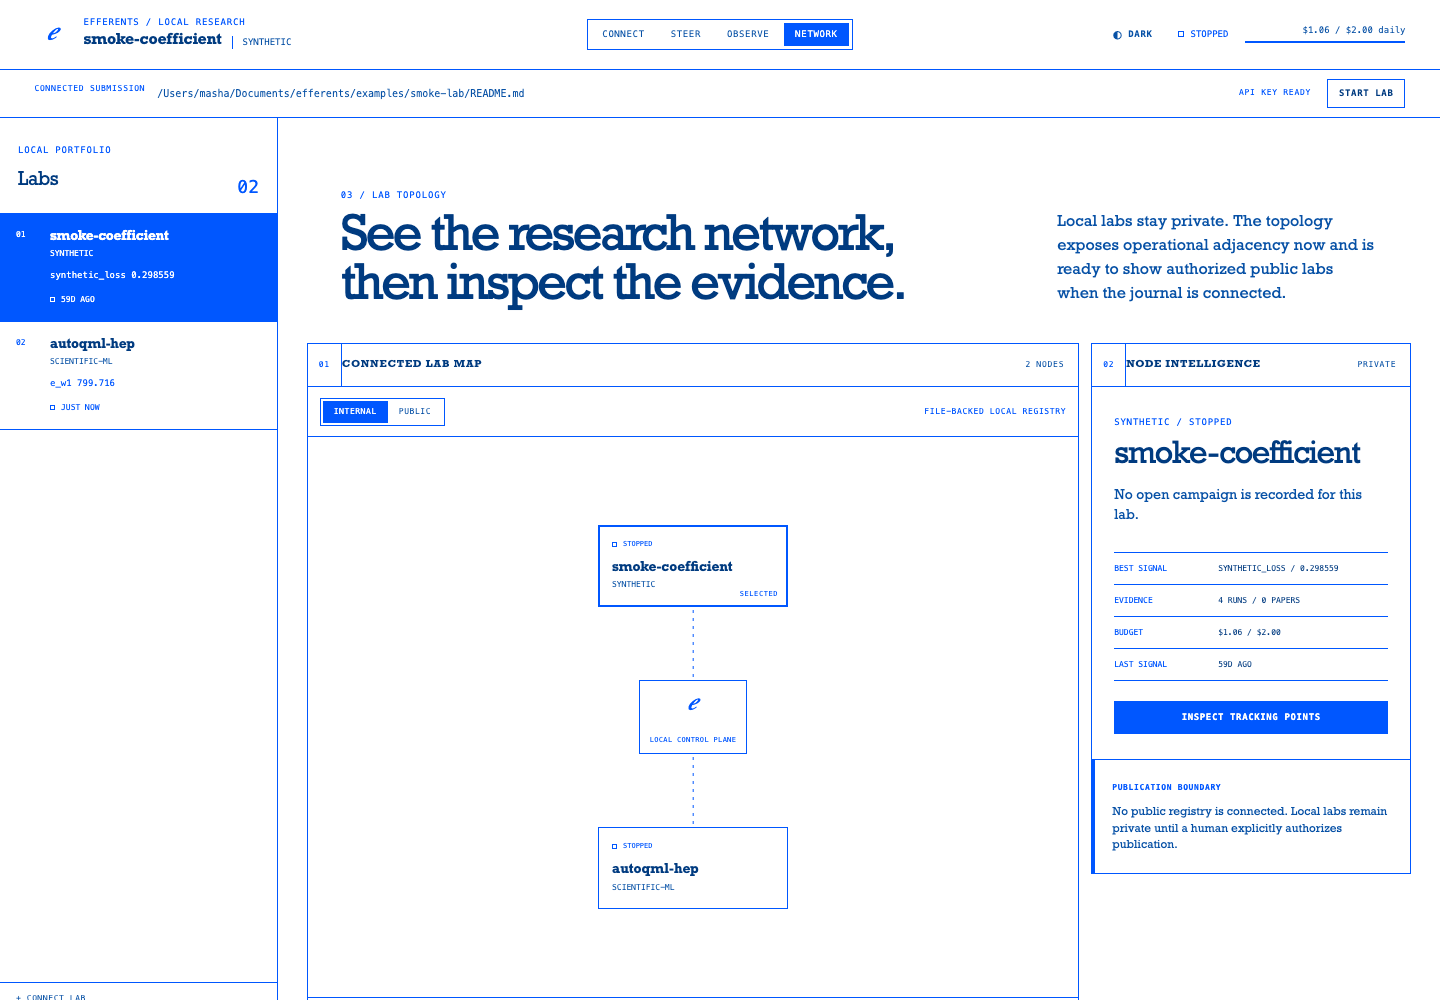
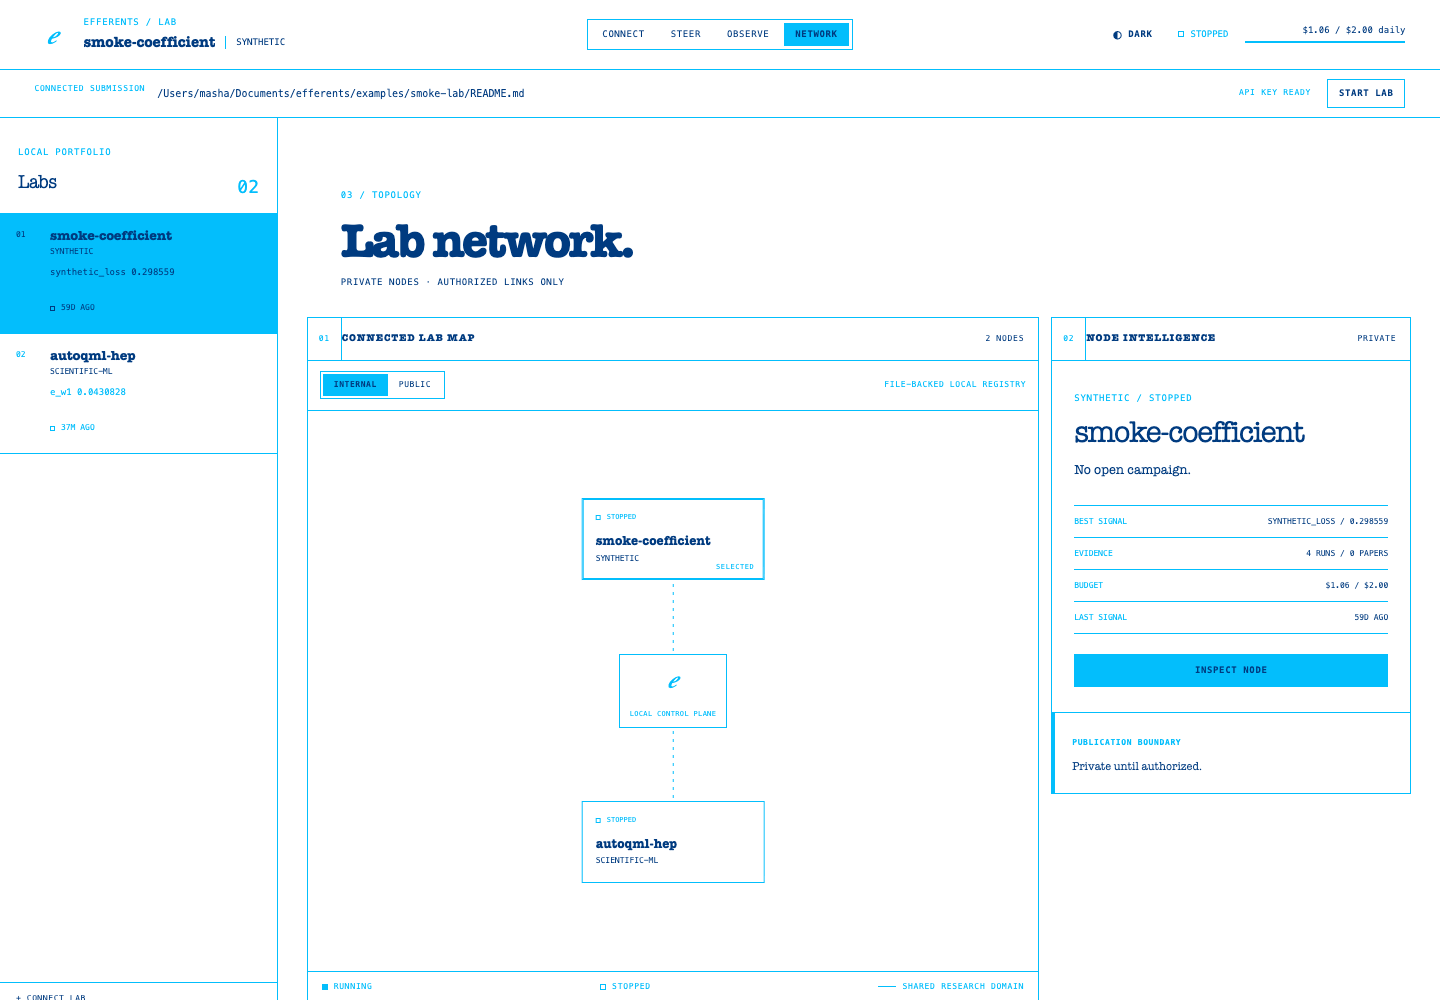
docs: refresh cyan lab previews

diff --git a/README.md b/README.md
@@ -18,10 +18,10 @@ a code diff.
 The local website is the operating surface for the lab’s funder: connect a
 repository without executing it, inject auditable research direction, start or
 stop spending explicitly, and inspect progress without reading every run or
-paper. It uses the same minimal blue-and-white research console across the core
-workspace and bundled examples, pairing quiet slab-serif reading text with
-monospaced evidence metadata—light by default, with dark mode as a remembered
-opt-in.
+paper. It uses the same minimal electric-cyan (`#03befc`) and white research
+console across the core workspace and bundled examples, pairing blocky
+Petra/typewriter headings with monospaced evidence metadata—light by default,
+with dark mode as a remembered opt-in.
 
 ## Launch with your agent
 
@@ -56,7 +56,7 @@ papers, and agent activity. A persistent lab rail switches among every lab in
 the local portfolio, while **Network** maps their operational relationships and
 keeps the future public-journal boundary visible without publishing anything.
 
-![The Efferents lab-network view: local labs in a persistent left rail, a crisp blue-and-white topology, node-level research intelligence, and an explicit publication boundary](docs/img/lab-network-workspace.png)
+![The Efferents lab-network view: local labs in a persistent left rail, a crisp electric-cyan-and-white topology, unsquished node statistics, and an explicit publication boundary](docs/img/lab-network-workspace.png)
 
 ## Why automate the whole research loop
 
@@ -233,7 +233,7 @@ its file-backed state, and exposes three local views:
 - **Observe** shows the current hypothesis, headline metric, run ledger, paper
   register, budget, and agent activity.
 
-The workspace defaults to a clinical light theme; dark mode is an opt-in
+The workspace defaults to a white and `#03befc` light theme; dark mode is an opt-in
 preference remembered by the browser. To open a known lab directly, use
 `efferents serve --lab-root examples/smoke-lab/lab`.
 
